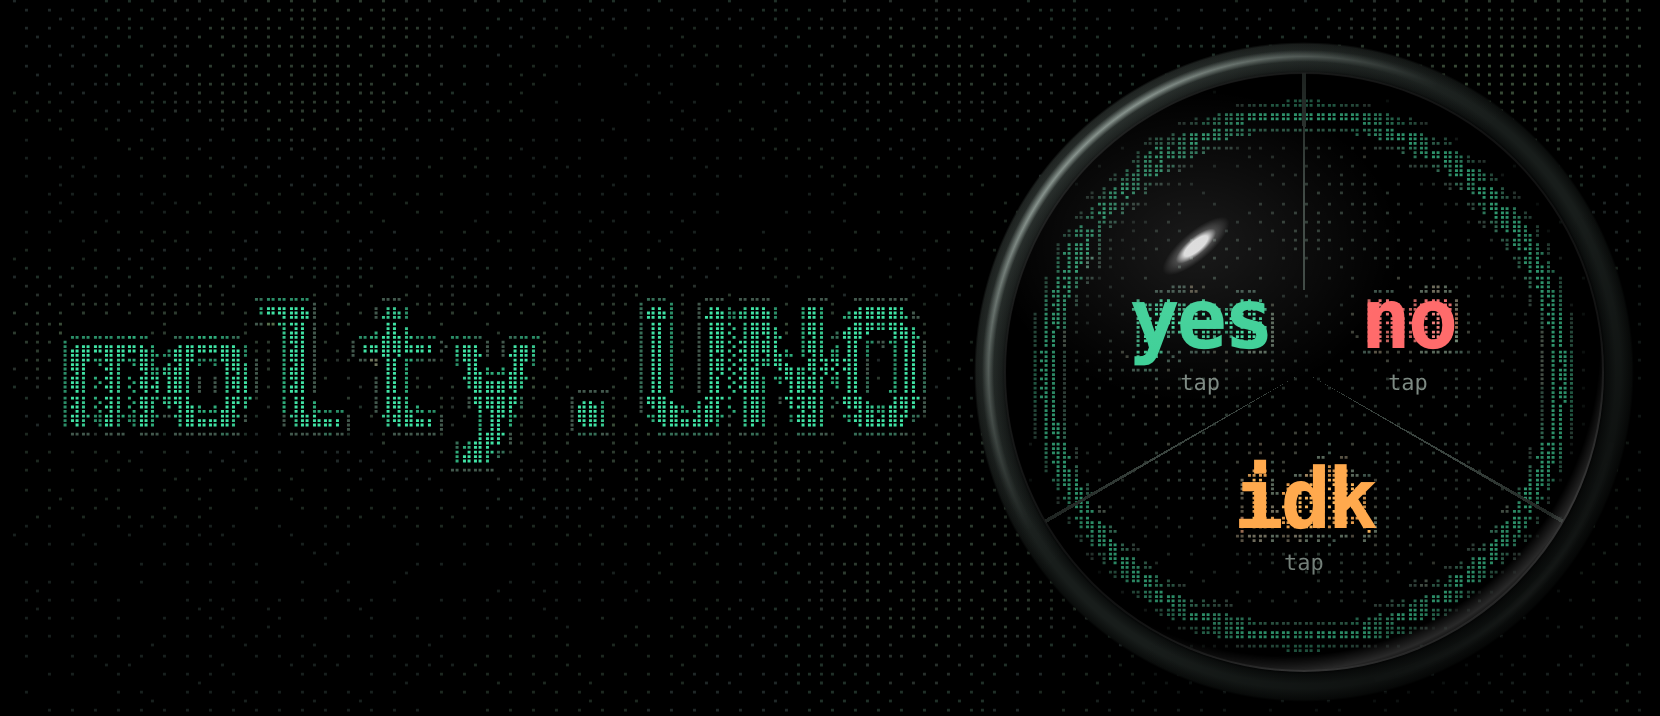
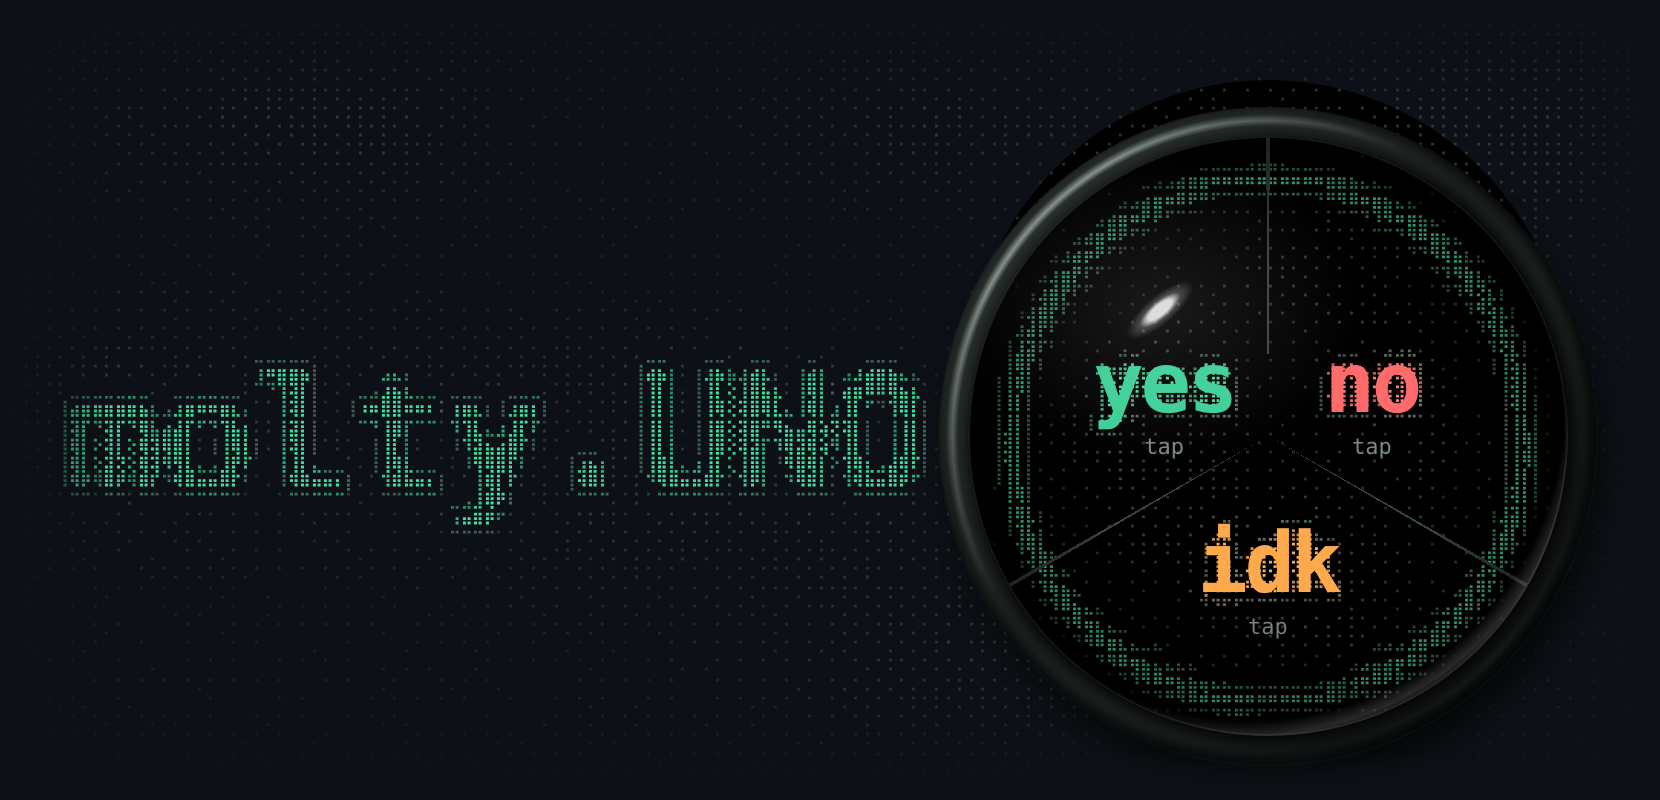
docs(readme): live hero on GitHub's page colours, duck (and a bunny take)
- The whole banner is live now: the page fluid moves behind the braille wordmark,
  a pointer pass stirs it, and the device runs the same round (a duck condenses,
  asks "Build passed. Open the PR?", yes/no/idk, a tap, the duck comes back happy).
- Rendered on #0d1117 (dark) and #ffffff (light) with the fluid fading out at the
  edges, so there is no box; the README picks the variant with <picture>.
- Light: the wordmark gets a deeper green so the thin braille reads on paper.
- docs/assets/molty-hero[-light].webp (duck), molty-hero-bunny[-light].webp to
  compare; the frog take is gone.

diff --git a/README.md b/README.md
@@ -1,4 +1,7 @@
-<a href="https://molty.uno"><img src="docs/assets/molty-hero.webp" width="830" alt="molty.UNO: a round screen of braille fluid. A frog Molty condenses out of it, melts, and the screen asks 'Build passed. Open the PR?' word by word. Yes, no and idk appear in three slices, yes is tapped, it answers 'Opening it now.', and the frog comes back happy."></a>
+<picture>
+  <source media="(prefers-color-scheme: light)" srcset="docs/assets/molty-hero-light.webp">
+  <img src="docs/assets/molty-hero.webp" width="830" alt="molty.UNO: the braille wordmark in a moving fluid of characters beside a round device. A duck Molty condenses out of the fluid and melts, and the screen asks 'Build passed. Open the PR?' word by word. Yes, no and idk appear in three slices, yes is tapped, it answers 'Opening it now.', and the duck comes back happy.">
+</picture>
 
 ### A round desk device that gives your AI agent a body.
 

diff --git a/apps/website/AGENTS.md b/apps/website/AGENTS.md
@@ -83,6 +83,6 @@ Never deploy or publish from here; nothing in this package does.
   is not monotonic, CLS > 0.01, or reduced motion / no JS / bundles that never load leave it
   hidden. Frames to `e2e-out/first-load-*.png`.
 - `pnpm og` regenerates `public/og.png` from the live page fluid (needs the preview running).
-- `pnpm readme` regenerates the GitHub README hero (`docs/assets/molty-hero.webp` + `.png`) from
+- `pnpm readme` regenerates the GitHub README hero (`docs/assets/molty-hero[-light].webp` + `.png`) from
   the same components: wordmark, Device, a Molty, the talk screen (preview running).
 - `dist/llms.txt`, `llms-full.txt` and raw `docs/*.md` come from `scripts/generate-llms-txt.mjs`.
